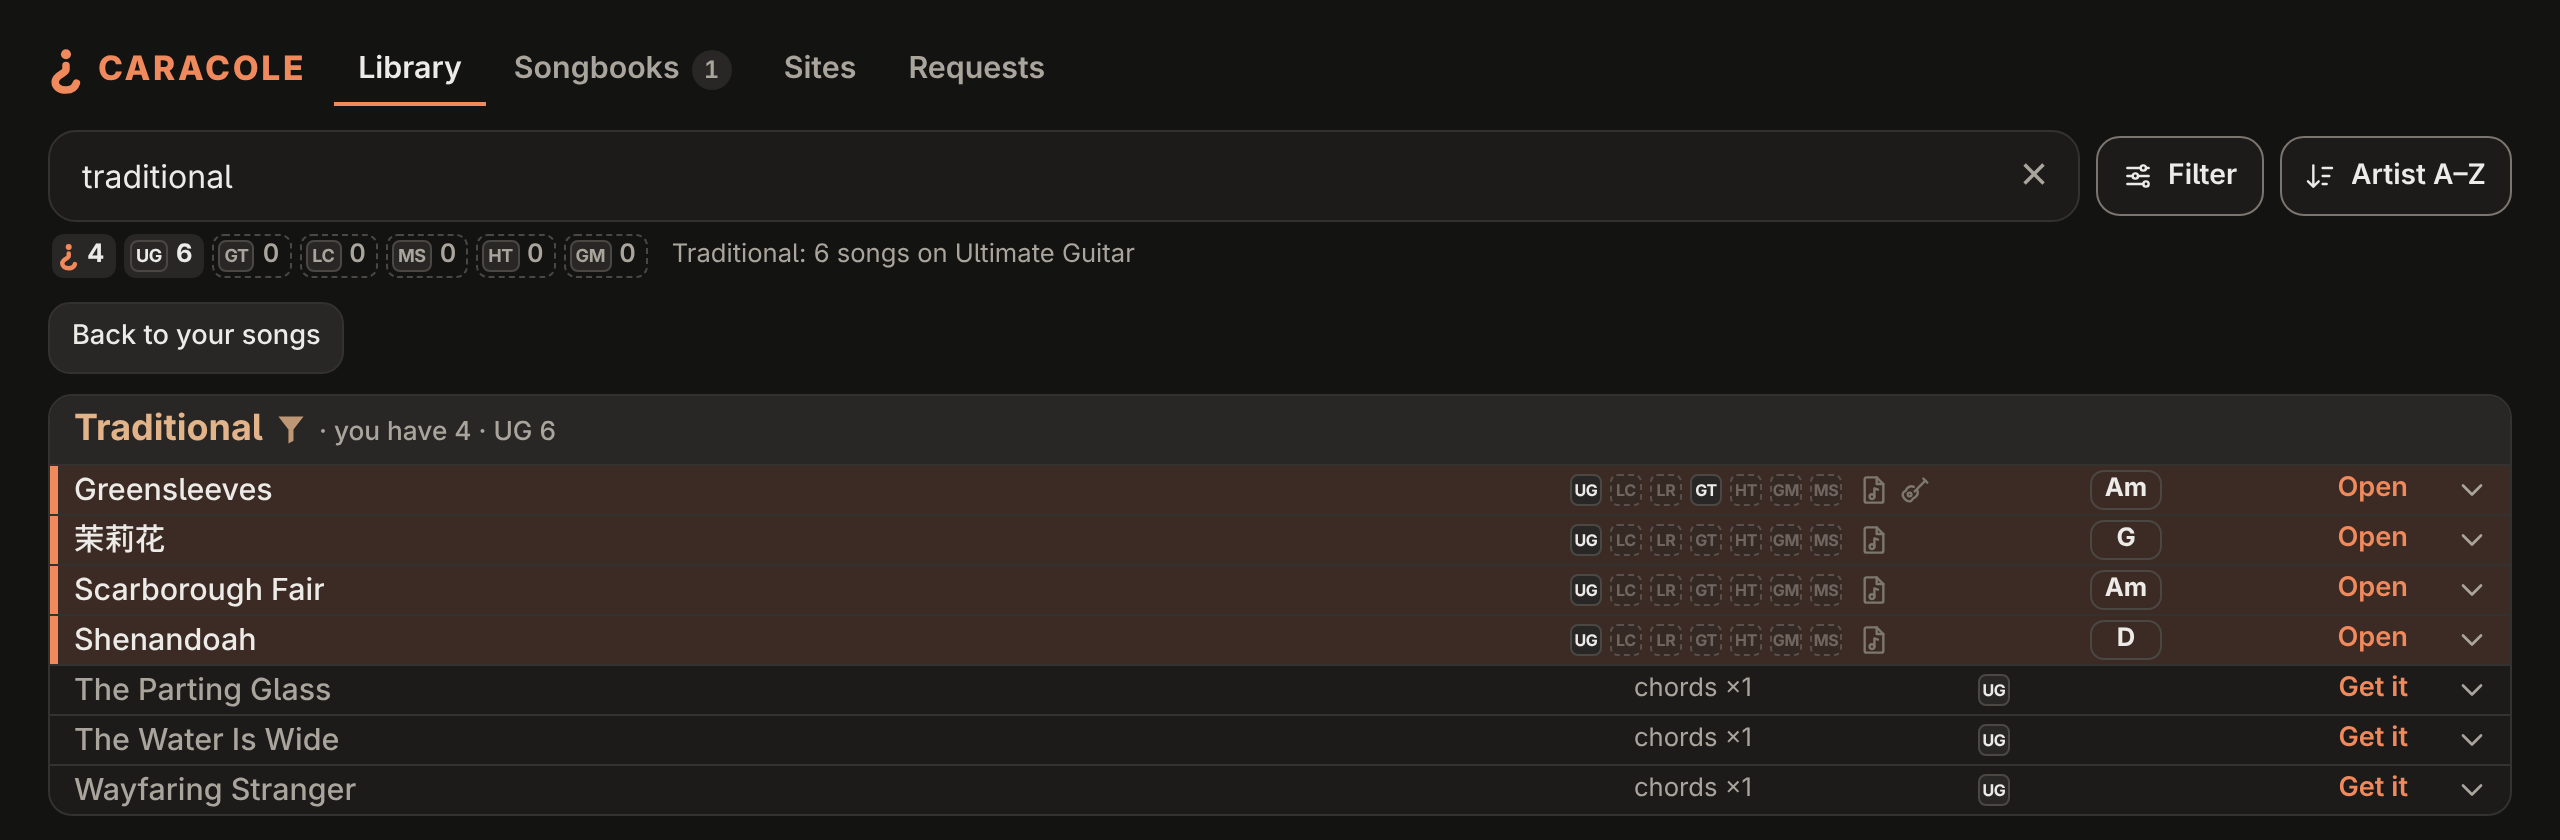
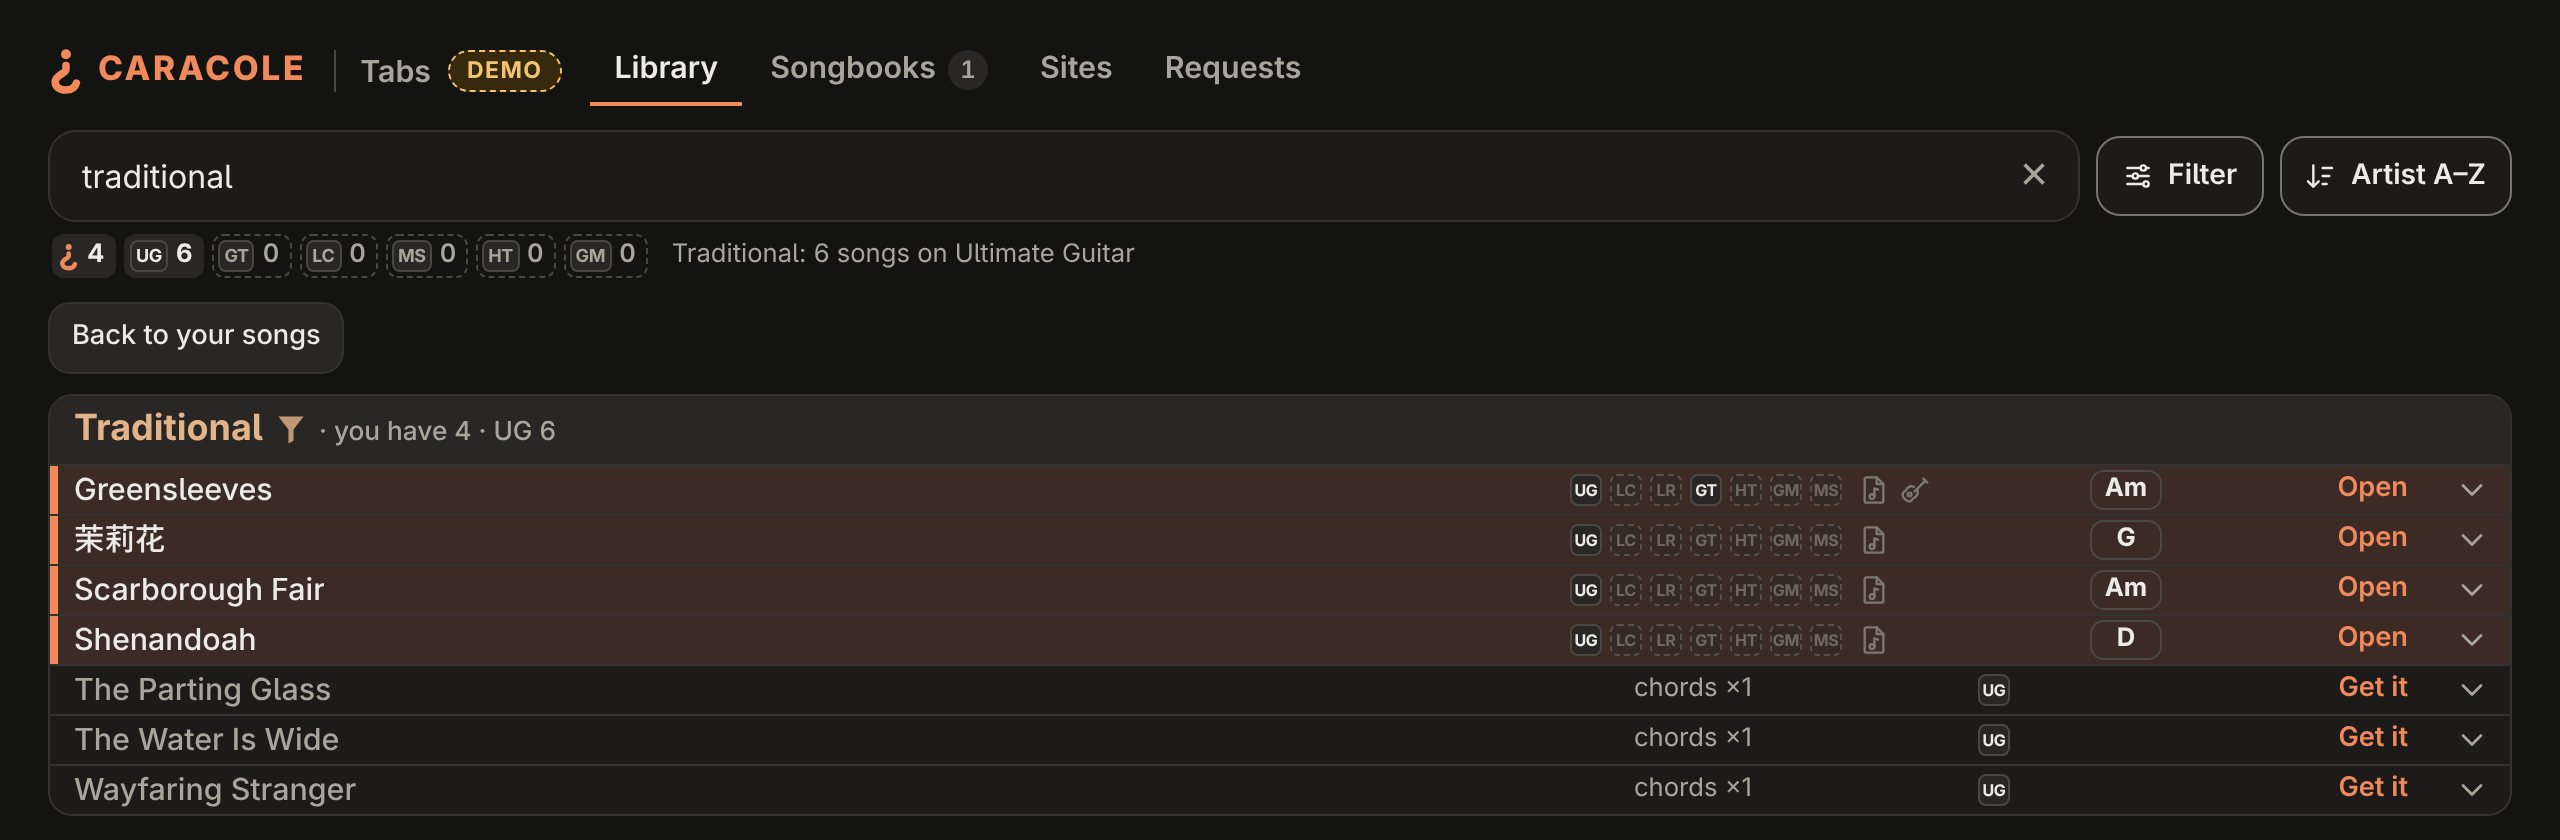
docs: the pictured pages name the demo library, badged Demo; which server a page is from
The README's library, Songbooks tab and Guitar Pro pictures, taken again by
docs/screenshots/make.py, now show the library's name and the demo's badge.
deploy.md's troubleshooting says how to tell caracole-web's pages from another
server's, and where the Requests tab's history is kept.

Changed region(s): [[0.125, 0.0619, 0.5, 0.1238]]

diff --git a/docs/deploy.md b/docs/deploy.md
@@ -862,6 +862,13 @@ songs wait for the next one. A bug exits 1, and ntfy says the unit failed
   listen on" says why. A 421: add the name the browser used to
   `web.allowedHosts` (`--allow-host`). "caracole serve has restarted since this
   page was opened": reload it.
+- **Which server is this page from?** Every page names the library after
+  caracole's, in its header and its tab's title (`name` in caracole.toml, else
+  the library folder's: "caracole · library" here). A page badged **Scratch
+  library** (or what `--label` says) is another caracole serve's, of a library
+  in a temporary folder: caracole-web's pages carry no badge
+  ([usage.md](usage.md#caracole-serve)). What each request did is in the
+  Requests tab, kept across restarts in `/var/lib/caracole/state/requests.jsonl`.
 - **Syncthing says "permission denied":** `ls -ld /var/lib/caracole/library`
   shows `drwxrwsr-x caracole caracole`, and `id syncthing` lists `caracole`?
   Restart Syncthing after a group change, and tick Ignore Permissions.
